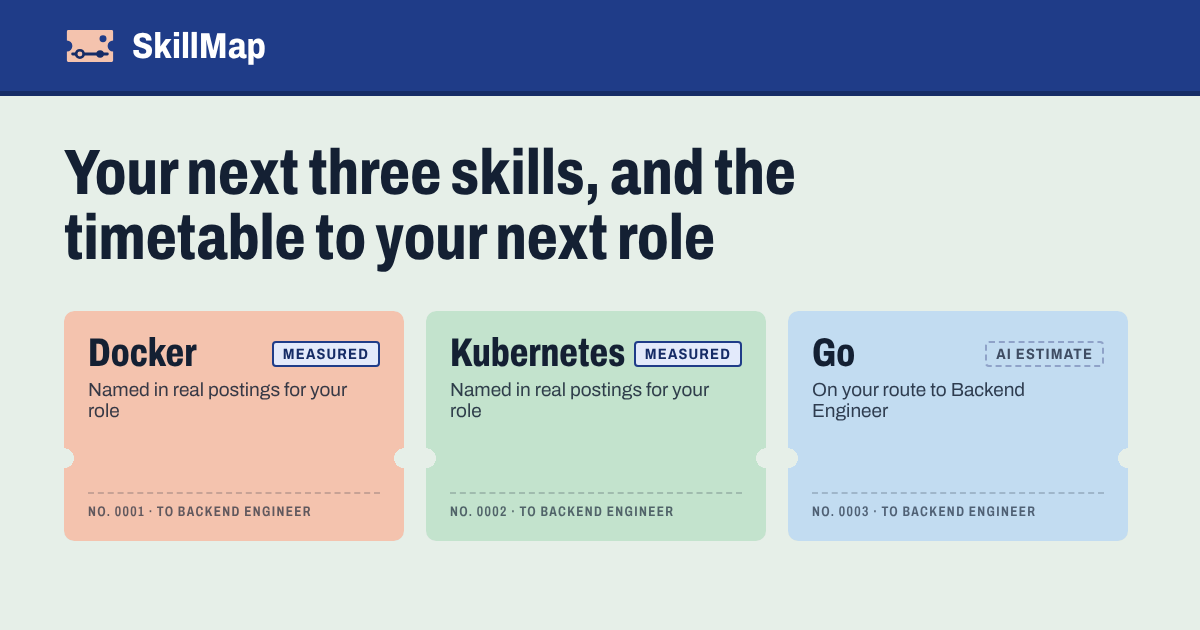
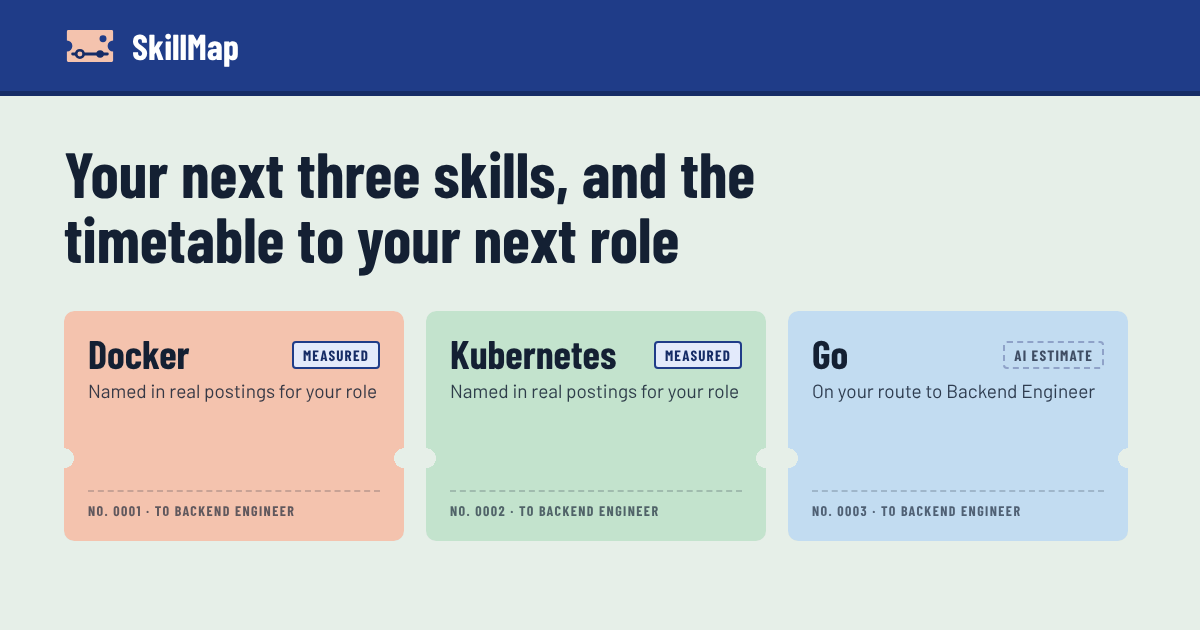
style: switch typeface to Barlow (signage), three widths replace Archivo's width axis

diff --git a/src/index.css b/src/index.css
@@ -1,9 +1,17 @@
 /* SkillMap — Platform Timetable.
    Railway timetable sheets on a mint platform ground, card-ticket stubs,
-   signal colours for state only. One family (Archivo), widths do the work. */
+   signal colours for state only. One family (Barlow) in three widths. */
 
-@import '@fontsource-variable/archivo/wdth.css';
-@import '@fontsource-variable/archivo/wdth-italic.css';
+@import '@fontsource/barlow/400.css';
+@import '@fontsource/barlow/400-italic.css';
+@import '@fontsource/barlow/500.css';
+@import '@fontsource/barlow/600.css';
+@import '@fontsource/barlow/700.css';
+@import '@fontsource/barlow-semi-condensed/600.css';
+@import '@fontsource/barlow-semi-condensed/700.css';
+@import '@fontsource/barlow-condensed/600.css';
+@import '@fontsource/barlow-condensed/700.css';
+@import '@fontsource/barlow-condensed/800.css';
 
 :root {
   /* shell */
@@ -51,7 +59,10 @@
   --shadow-stub: 0 1px 1px rgba(20, 32, 51, 0.08), 0 6px 14px -8px rgba(20, 32, 51, 0.3);
   --ease-out: cubic-bezier(0.16, 1, 0.3, 1);
 
-  --font: 'Archivo Variable', 'Archivo', system-ui, -apple-system, 'Segoe UI', sans-serif;
+  /* Barlow: rail and road signage lettering. Three widths do the work weight would. */
+  --font: 'Barlow', system-ui, -apple-system, 'Segoe UI', sans-serif;
+  --font-semi: 'Barlow Semi Condensed', 'Barlow', system-ui, sans-serif;
+  --font-cond: 'Barlow Condensed', 'Barlow', system-ui, sans-serif;
 
   color-scheme: light;
 }
@@ -65,8 +76,7 @@ body {
   line-height: 1.55;
   color: var(--ink);
   background: var(--ground);
-  font-optical-sizing: auto;
-  -webkit-font-smoothing: antialiased;
+    -webkit-font-smoothing: antialiased;
 }
 h1, h2, h3, h4, p, ul, ol, table { margin: 0; }
 ul, ol { padding: 0; list-style: none; }
@@ -77,7 +87,7 @@ a:hover { text-decoration-thickness: 2px; }
 input, select { caret-color: var(--rail); }
 :focus-visible { outline: 2px solid var(--rail); outline-offset: 2px; border-radius: 3px; }
 * { scrollbar-color: var(--rule-strong) transparent; scrollbar-width: thin; }
-.num { font-variant-numeric: tabular-nums lining-nums; font-stretch: 80%; }
+.num { font-variant-numeric: tabular-nums lining-nums; font-family: var(--font-cond); }
 .sr-only { position: absolute; width: 1px; height: 1px; padding: 0; margin: -1px; overflow: hidden; clip: rect(0 0 0 0); white-space: nowrap; border: 0; }
 
 /* ── Top bar (rail) ───────────────────────────────────────────────────── */
@@ -92,12 +102,12 @@ input, select { caret-color: var(--rail); }
   height: 56px; display: flex; align-items: center; gap: 28px;
 }
 .wordmark { display: flex; align-items: center; gap: 10px; color: #fff; text-decoration: none; flex-shrink: 0; }
-.wordmark-name { font-size: 19px; font-weight: 750; font-stretch: 88%; letter-spacing: -0.01em; }
+.wordmark-name { font-size: 19px; font-weight: 700; font-family: var(--font-semi); letter-spacing: -0.01em; }
 .topnav { display: flex; gap: 2px; overflow-x: auto; scrollbar-width: none; min-width: 0; }
 .topnav::-webkit-scrollbar { display: none; }
 .topnav a {
   color: var(--rail-ink-dim); text-decoration: none; white-space: nowrap;
-  font-size: 13.5px; font-weight: 550; padding: 7px 11px; border-radius: 4px;
+  font-size: 13.5px; font-weight: 500; padding: 7px 11px; border-radius: 4px;
   transition: color 160ms var(--ease-out), background 160ms var(--ease-out);
 }
 .topnav a:hover { color: #fff; background: rgba(255, 255, 255, 0.08); }
@@ -106,12 +116,12 @@ input, select { caret-color: var(--rail); }
 /* ── Page ─────────────────────────────────────────────────────────────── */
 .page { max-width: 1160px; margin: 0 auto; padding: 28px 24px 72px; }
 .intro { display: grid; grid-template-columns: minmax(0, 1fr) auto; align-items: end; gap: 24px; margin: 8px 0 20px; }
-.intro h1 { font-size: 32px; line-height: 1.08; font-weight: 760; font-stretch: 80%; letter-spacing: -0.02em; text-wrap: balance; max-width: 22ch; }
+.intro h1 { font-size: 32px; line-height: 1.08; font-weight: 700; font-family: var(--font-cond); letter-spacing: -0.02em; text-wrap: balance; max-width: 22ch; }
 .intro p { color: var(--ink-2); max-width: 58ch; margin-top: 8px; font-size: 15.5px; }
 
 .section { margin-top: 36px; }
 .section-head { display: flex; align-items: baseline; justify-content: space-between; gap: 16px; flex-wrap: wrap; margin-bottom: 12px; }
-.section-head h2 { font-size: 23px; font-weight: 740; font-stretch: 78%; letter-spacing: -0.005em; }
+.section-head h2 { font-size: 23px; font-weight: 700; font-family: var(--font-cond); letter-spacing: -0.005em; }
 .section-head p { color: var(--ink-2); font-size: 14px; max-width: 70ch; }
 .grid-2 { display: grid; grid-template-columns: repeat(2, minmax(0, 1fr)); gap: 20px; }
 .grid-main { display: grid; grid-template-columns: minmax(0, 2fr) minmax(0, 1fr); gap: 20px; align-items: stretch; }
@@ -125,13 +135,13 @@ input, select { caret-color: var(--rail); }
 }
 .sheet-pad { padding: 20px 22px; }
 .sheet-title { display: flex; align-items: center; gap: 10px; flex-wrap: wrap; }
-.sheet-title h3 { font-size: 17px; font-weight: 720; font-stretch: 82%; }
+.sheet-title h3 { font-size: 17px; font-weight: 700; font-family: var(--font-semi); }
 .sheet-sub { font-size: 13.5px; color: var(--ink-2); margin-top: 4px; }
 
 /* measured / estimate marks */
 .mark {
   display: inline-flex; align-items: center; gap: 5px;
-  font-size: 11px; font-weight: 700; font-stretch: 85%; letter-spacing: 0.06em; text-transform: uppercase;
+  font-size: 11px; font-weight: 700; font-family: var(--font-semi); letter-spacing: 0.06em; text-transform: uppercase;
   padding: 2px 7px; border-radius: 3px; border: 1px solid; line-height: 1.5;
 }
 .mark-measured { color: var(--rail-deep); border-color: var(--rail); background: #e3eafb; }
@@ -144,11 +154,11 @@ input, select { caret-color: var(--rail); }
 .slip-head {
   display: flex; justify-content: space-between; align-items: center; gap: 12px;
   padding: 10px 22px; border-bottom: 1px dashed var(--rule-strong);
-  font-size: 12px; font-weight: 650; font-stretch: 80%; letter-spacing: 0.08em; text-transform: uppercase; color: var(--ink-3);
+  font-size: 12px; font-weight: 600; font-family: var(--font-cond); letter-spacing: 0.08em; text-transform: uppercase; color: var(--ink-3);
 }
 .slip-body { display: grid; grid-template-columns: minmax(0, 2.2fr) minmax(0, 1.4fr) minmax(0, 0.9fr) auto; gap: 16px; padding: 18px 22px 20px; align-items: end; }
 .field { display: flex; flex-direction: column; gap: 6px; min-width: 0; position: relative; }
-.field-label { font-size: 12px; font-weight: 700; font-stretch: 85%; letter-spacing: 0.07em; text-transform: uppercase; color: var(--rail-deep); }
+.field-label { font-size: 12px; font-weight: 700; font-family: var(--font-semi); letter-spacing: 0.07em; text-transform: uppercase; color: var(--rail-deep); }
 .field-hint { font-size: 12.5px; color: var(--ink-3); }
 .field-error { color: var(--sig-red); font-weight: 600; }
 .control {
@@ -168,7 +178,7 @@ select.control { appearance: none; padding-right: 34px; cursor: pointer;
 .chip {
   display: inline-flex; align-items: center; gap: 4px;
   background: var(--sheet-alt); border: 1px solid var(--rule); color: var(--ink);
-  border-radius: 4px; padding: 3px 4px 3px 9px; font-size: 13.5px; font-weight: 550; line-height: 1.3;
+  border-radius: 4px; padding: 3px 4px 3px 9px; font-size: 13.5px; font-weight: 500; line-height: 1.3;
 }
 .chip button {
   display: inline-grid; place-items: center; width: 20px; height: 20px; border: 0; border-radius: 3px;
@@ -190,7 +200,7 @@ select.control { appearance: none; padding-right: 34px; cursor: pointer;
 
 .btn {
   min-height: 44px; display: inline-flex; align-items: center; justify-content: center; gap: 8px;
-  border-radius: var(--radius); padding: 0 18px; font-size: 15px; font-weight: 650; cursor: pointer;
+  border-radius: var(--radius); padding: 0 18px; font-size: 15px; font-weight: 600; cursor: pointer;
   border: 1px solid transparent; white-space: nowrap;
   transition: background 160ms var(--ease-out), box-shadow 160ms var(--ease-out), transform 120ms var(--ease-out);
 }
@@ -215,7 +225,7 @@ select.control { appearance: none; padding-right: 34px; cursor: pointer;
 .legend { display: grid; grid-template-columns: repeat(3, minmax(0, 1fr)); }
 .legend > div { padding: 18px 22px; display: flex; gap: 14px; align-items: flex-start; }
 .legend > div + div { border-left: 1px solid var(--rule); }
-.legend h3 { font-size: 15px; font-weight: 680; margin-bottom: 3px; }
+.legend h3 { font-size: 15px; font-weight: 600; margin-bottom: 3px; }
 .legend p { font-size: 13.5px; color: var(--ink-2); }
 
 /* ── Ticket stubs (signature) ─────────────────────────────────────────── */
@@ -244,9 +254,9 @@ select.control { appearance: none; padding-right: 34px; cursor: pointer;
 .stub.is-punched { --punch: 9px; }
 .stub-head { padding: 16px 16px 0; display: flex; align-items: flex-start; justify-content: space-between; gap: 10px; }
 .stub-head .mark { flex-shrink: 0; margin-top: 5px; }
-.stub-skill { font-size: 28px; line-height: 1.02; font-weight: 780; font-stretch: 76%; letter-spacing: -0.005em; overflow-wrap: anywhere; }
+.stub-skill { font-size: 28px; line-height: 1.02; font-weight: 700; font-family: var(--font-cond); letter-spacing: -0.005em; overflow-wrap: anywhere; }
 .stub-why { padding: 10px 52px 14px 16px; font-size: 13.5px; line-height: 1.45; color: rgba(20, 32, 51, 0.88); }
-.stub-why strong { font-weight: 750; }
+.stub-why strong { font-weight: 700; }
 .stub-foot {
   margin-top: auto; padding: 10px 16px 12px; border-top: 1.5px dashed var(--stock-edge);
   display: flex; align-items: center; justify-content: space-between; gap: 8px; flex-wrap: wrap;
@@ -255,7 +265,7 @@ select.control { appearance: none; padding-right: 34px; cursor: pointer;
 .stub-links a { color: var(--ink); }
 .stub-print {
   width: 100%; display: flex; justify-content: space-between; gap: 8px; margin-top: 2px;
-  font-size: 11.5px; font-weight: 650; font-stretch: 72%; letter-spacing: 0.08em; text-transform: uppercase; color: rgba(20, 32, 51, 0.66);
+  font-size: 11.5px; font-weight: 600; font-family: var(--font-cond); letter-spacing: 0.08em; text-transform: uppercase; color: rgba(20, 32, 51, 0.66);
 }
 .stub-print .punched-on { color: #17583a; font-weight: 800; }
 .punch {
@@ -268,12 +278,12 @@ select.control { appearance: none; padding-right: 34px; cursor: pointer;
 
 /* wallet: one mini ticket per route skill */
 .wallet-head { display: flex; justify-content: space-between; align-items: baseline; gap: 12px; flex-wrap: wrap; margin-bottom: 12px; }
-.wallet-head h3 { font-size: 17px; font-weight: 720; font-stretch: 82%; }
+.wallet-head h3 { font-size: 17px; font-weight: 700; font-family: var(--font-semi); }
 .wallet-head p { font-size: 13.5px; color: var(--ink-2); }
 .wallet { display: grid; grid-template-columns: repeat(auto-fill, minmax(132px, 1fr)); gap: 8px; }
 .mini {
   position: relative; display: flex; align-items: center; gap: 8px; min-height: 40px;
-  padding: 8px 12px; border-radius: 5px; font-size: 13.5px; font-weight: 650; font-stretch: 88%;
+  padding: 8px 12px; border-radius: 5px; font-size: 13.5px; font-weight: 600; font-family: var(--font-semi);
   border: 1.5px dashed var(--rule-strong); color: var(--ink-2); background: transparent;
 }
 .mini.held { border: 1.5px solid #1a3274; background: var(--rail); color: #fff; }
@@ -294,8 +304,8 @@ select.control { appearance: none; padding-right: 34px; cursor: pointer;
 
 /* ── Timetable (signature) ────────────────────────────────────────────── */
 .tt-meta { display: flex; flex-wrap: wrap; gap: 8px 20px; padding: 14px 22px; font-size: 14px; color: var(--ink-2); border-bottom: 1px solid var(--rule); }
-.tt-meta b { color: var(--ink); font-weight: 650; }
-.signal { display: inline-flex; align-items: center; gap: 6px; font-weight: 650; }
+.tt-meta b { color: var(--ink); font-weight: 600; }
+.signal { display: inline-flex; align-items: center; gap: 6px; font-weight: 600; }
 .signal::before { content: ''; width: 9px; height: 9px; border-radius: 50%; background: currentColor; }
 .signal-Easy { color: var(--sig-green); }
 .signal-Medium { color: var(--sig-amber); }
@@ -303,7 +313,7 @@ select.control { appearance: none; padding-right: 34px; cursor: pointer;
 .table-wrap { overflow-x: auto; }
 table.tt { width: 100%; border-collapse: collapse; font-size: 14.5px; }
 .tt th {
-  text-align: left; font-size: 11.5px; font-weight: 700; font-stretch: 78%; letter-spacing: 0.1em; text-transform: uppercase;
+  text-align: left; font-size: 11.5px; font-weight: 700; font-family: var(--font-cond); letter-spacing: 0.1em; text-transform: uppercase;
   color: var(--rail-deep); padding: 10px 14px; border-bottom: 4px double var(--rail); background: #eef2fb; white-space: nowrap;
 }
 .tt td { padding: 12px 14px; border-bottom: 1px solid var(--rule); vertical-align: top; }
@@ -312,10 +322,10 @@ table.tt { width: 100%; border-collapse: collapse; font-size: 14.5px; }
 .tt th:first-child, .tt td:first-child { padding-left: 22px; }
 .tt th:last-child, .tt td:last-child { padding-right: 22px; }
 .tt .stop { width: 72px; }
-.stop-dot { display: inline-grid; place-items: center; width: 26px; height: 26px; border-radius: 50%; border: 2px solid var(--rail); color: var(--rail-deep); font-size: 12.5px; font-weight: 750; background: #fff; }
-.tt .station { font-weight: 700; font-stretch: 84%; font-size: 16px; min-width: 140px; }
-.tt .arrives { white-space: nowrap; font-weight: 700; font-size: 16px; font-stretch: 78%; }
-.tt .arrives small { display: block; font-weight: 450; color: var(--ink-3); font-size: 12.5px; }
+.stop-dot { display: inline-grid; place-items: center; width: 26px; height: 26px; border-radius: 50%; border: 2px solid var(--rail); color: var(--rail-deep); font-size: 12.5px; font-weight: 700; background: #fff; }
+.tt .station { font-weight: 700; font-family: var(--font-semi); font-size: 16px; min-width: 140px; }
+.tt .arrives { white-space: nowrap; font-weight: 700; font-size: 16px; font-family: var(--font-cond); }
+.tt .arrives small { display: block; font-weight: 400; color: var(--ink-3); font-size: 12.5px; }
 .via { display: flex; flex-wrap: wrap; gap: 5px; min-width: 160px; }
 .via span { display: inline-flex; align-items: center; gap: 3px; font-size: 12.5px; font-weight: 600; padding: 2px 8px; border-radius: 3px; border: 1px solid var(--rule-strong); background: #fff; white-space: nowrap; }
 .via span.held { border-color: var(--sig-green); background: var(--sig-green-bg); color: #17583a; }
@@ -328,20 +338,20 @@ table.tt { width: 100%; border-collapse: collapse; font-size: 14.5px; }
 .row-name { font-weight: 600; font-size: 14.5px; display: flex; align-items: center; gap: 8px; min-width: 0; }
 .row-fig { font-size: 14px; color: var(--ink-2); white-space: nowrap; }
 .row-fig b { font-size: 16px; }
-.row-fig b { color: var(--ink); font-weight: 720; }
+.row-fig b { color: var(--ink); font-weight: 700; }
 .bar { grid-column: 1 / -1; height: 6px; background: #e4e9f2; border-radius: 1px; overflow: hidden; }
 .bar > i { display: block; height: 100%; background: var(--rail); border-radius: 1px; }
 .bar.is-held > i { background: var(--sig-green); }
 .bar.is-est { background: repeating-linear-gradient(90deg, #e4e9f2 0 6px, transparent 6px 8px); }
 .bar.is-est > i { background: repeating-linear-gradient(90deg, var(--ink-3) 0 6px, transparent 6px 8px); }
-.held-tag { font-size: 12px; font-weight: 650; color: var(--sig-green); display: inline-flex; align-items: center; gap: 3px; }
+.held-tag { font-size: 12px; font-weight: 600; color: var(--sig-green); display: inline-flex; align-items: center; gap: 3px; }
 .trend { display: inline-flex; }
 .trend-rising { color: var(--sig-green); }
 .trend-declining { color: var(--sig-red); }
 .trend-stable { color: var(--ink-3); }
 .fading li { padding: 10px 0; border-top: 1px solid var(--rule); }
 .fading li:first-child { border-top: 0; }
-.fading h4 { font-size: 14.5px; font-weight: 650; }
+.fading h4 { font-size: 14.5px; font-weight: 600; }
 .fading p { font-size: 13.5px; color: var(--ink-2); margin-top: 2px; }
 .source { font-size: 12.5px; color: var(--ink-3); line-height: 1.55; border-top: 1px dashed var(--rule-strong); padding-top: 12px; margin-top: 14px; }
 .notes { display: flex; flex-direction: column; gap: 4px; margin: 4px 0 10px; font-size: 13px; color: #5a3700; }
@@ -364,13 +374,13 @@ table.tt { width: 100%; border-collapse: collapse; font-size: 14.5px; }
 .stn { position: relative; padding: 0 10px 0 0; min-width: 0; }
 .stn-mark { position: relative; z-index: 1; display: block; width: 22px; height: 22px; margin: 25px 0 12px; border-radius: 50%; background: var(--rail); border: 4px solid var(--sheet); box-shadow: 0 0 0 2px var(--rail); }
 .stn.interchange .stn-mark { width: 26px; height: 26px; margin-top: 23px; background: #fff; border: 5px solid var(--rail); box-shadow: 0 0 0 3px var(--sheet), 0 0 0 5px var(--rail); }
-.stn-name { font-size: 15px; font-weight: 720; font-stretch: 82%; line-height: 1.15; overflow-wrap: anywhere; }
+.stn-name { font-size: 15px; font-weight: 700; font-family: var(--font-semi); line-height: 1.15; overflow-wrap: anywhere; }
 .stn-from { font-size: 12.5px; color: var(--ink-3); margin-top: 3px; line-height: 1.35; }
 .stn-board { display: flex; flex-wrap: wrap; gap: 4px; margin-top: 2px; }
-.stn-board span { font-size: 12.5px; font-weight: 650; background: #e3eafb; color: var(--rail-deep); border-radius: 3px; padding: 2px 7px; }
+.stn-board span { font-size: 12.5px; font-weight: 600; background: #e3eafb; color: var(--rail-deep); border-radius: 3px; padding: 2px 7px; }
 .stn.terminus .stn-mark { width: 30px; height: 30px; margin-top: 21px; border-radius: 4px; background: var(--rail-deep); border: 4px solid var(--sheet); box-shadow: 0 0 0 2px var(--rail-deep); }
-.terminus-board { display: inline-block; background: var(--stock-salmon); color: var(--ink); border-radius: 5px; padding: 8px 12px; font-size: 16px; font-weight: 780; font-stretch: 78%; line-height: 1.1; }
-.route-label { position: absolute; top: 0; left: 0; font-size: 11.5px; font-weight: 700; font-stretch: 78%; letter-spacing: 0.08em; text-transform: uppercase; color: var(--ink-3); white-space: nowrap; }
+.terminus-board { display: inline-block; background: var(--stock-salmon); color: var(--ink); border-radius: 5px; padding: 8px 12px; font-size: 16px; font-weight: 700; font-family: var(--font-cond); line-height: 1.1; }
+.route-label { position: absolute; top: 0; left: 0; font-size: 11.5px; font-weight: 700; font-family: var(--font-cond); letter-spacing: 0.08em; text-transform: uppercase; color: var(--ink-3); white-space: nowrap; }
 .map-legend { display: flex; gap: 16px; flex-wrap: wrap; padding: 12px 22px; font-size: 13px; color: var(--ink-2); border-top: 1px solid var(--rule); align-items: center; }
 .map-legend span { display: inline-flex; align-items: center; gap: 7px; }
 .lg { display: inline-block; width: 12px; height: 12px; border-radius: 50%; background: var(--rail); }
@@ -380,7 +390,7 @@ table.tt { width: 100%; border-collapse: collapse; font-size: 14.5px; }
 /* specimen (empty state) */
 .specimen { display: grid; grid-template-columns: minmax(0, 0.9fr) minmax(0, 1.6fr); gap: 20px; align-items: start; }
 .specimen-cap { display: flex; justify-content: space-between; align-items: baseline; gap: 12px; flex-wrap: wrap; margin-bottom: 10px; }
-.specimen-cap h2 { font-size: 23px; font-weight: 740; font-stretch: 78%; }
+.specimen-cap h2 { font-size: 23px; font-weight: 700; font-family: var(--font-cond); }
 .specimen-cap p { font-size: 13.5px; color: var(--ink-2); max-width: 62ch; }
 .specimen .stub { min-height: 0; }
 .specimen-note { font-size: 13px; color: var(--ink-2); padding: 12px 22px 16px; border-top: 1px solid var(--rule); }
@@ -391,7 +401,7 @@ table.tt { width: 100%; border-collapse: collapse; font-size: 14.5px; }
 
 /* ── Quick wins table ─────────────────────────────────────────────────── */
 .links { display: flex; flex-wrap: wrap; gap: 4px 12px; font-size: 13.5px; }
-.impact { font-weight: 650; }
+.impact { font-weight: 600; }
 .impact-High { color: var(--sig-green); }
 .impact-Medium { color: var(--sig-amber); }
 .impact-Low { color: var(--ink-3); }

diff --git a/PRODUCT.md b/PRODUCT.md
@@ -47,7 +47,7 @@ research for you, not a spreadsheet.
 † marks every AI estimate; measured figures carry their sample size and source.
 
 ## Technical context
-- React 18 + Vite 8 frontend; plain CSS design system in src/index.css ("Platform Timetable" world), Archivo variable font via Fontsource.
+- React 18 + Vite 8 frontend; plain CSS design system in src/index.css ("Platform Timetable" world), Barlow, Barlow Semi Condensed and Barlow Condensed via Fontsource.
 - LLM: Groq (`openai/gpt-oss-120b` by default, override with `GROQ_MODEL`), JSON mode + zod-validated output.
 - One shared handler (`server/handler.js`) for Vercel and the Vite dev server; prompt in `server/prompt.js`.
 - API key kept server-side (Vercel `api/analyze.js` + Vite dev proxy).
